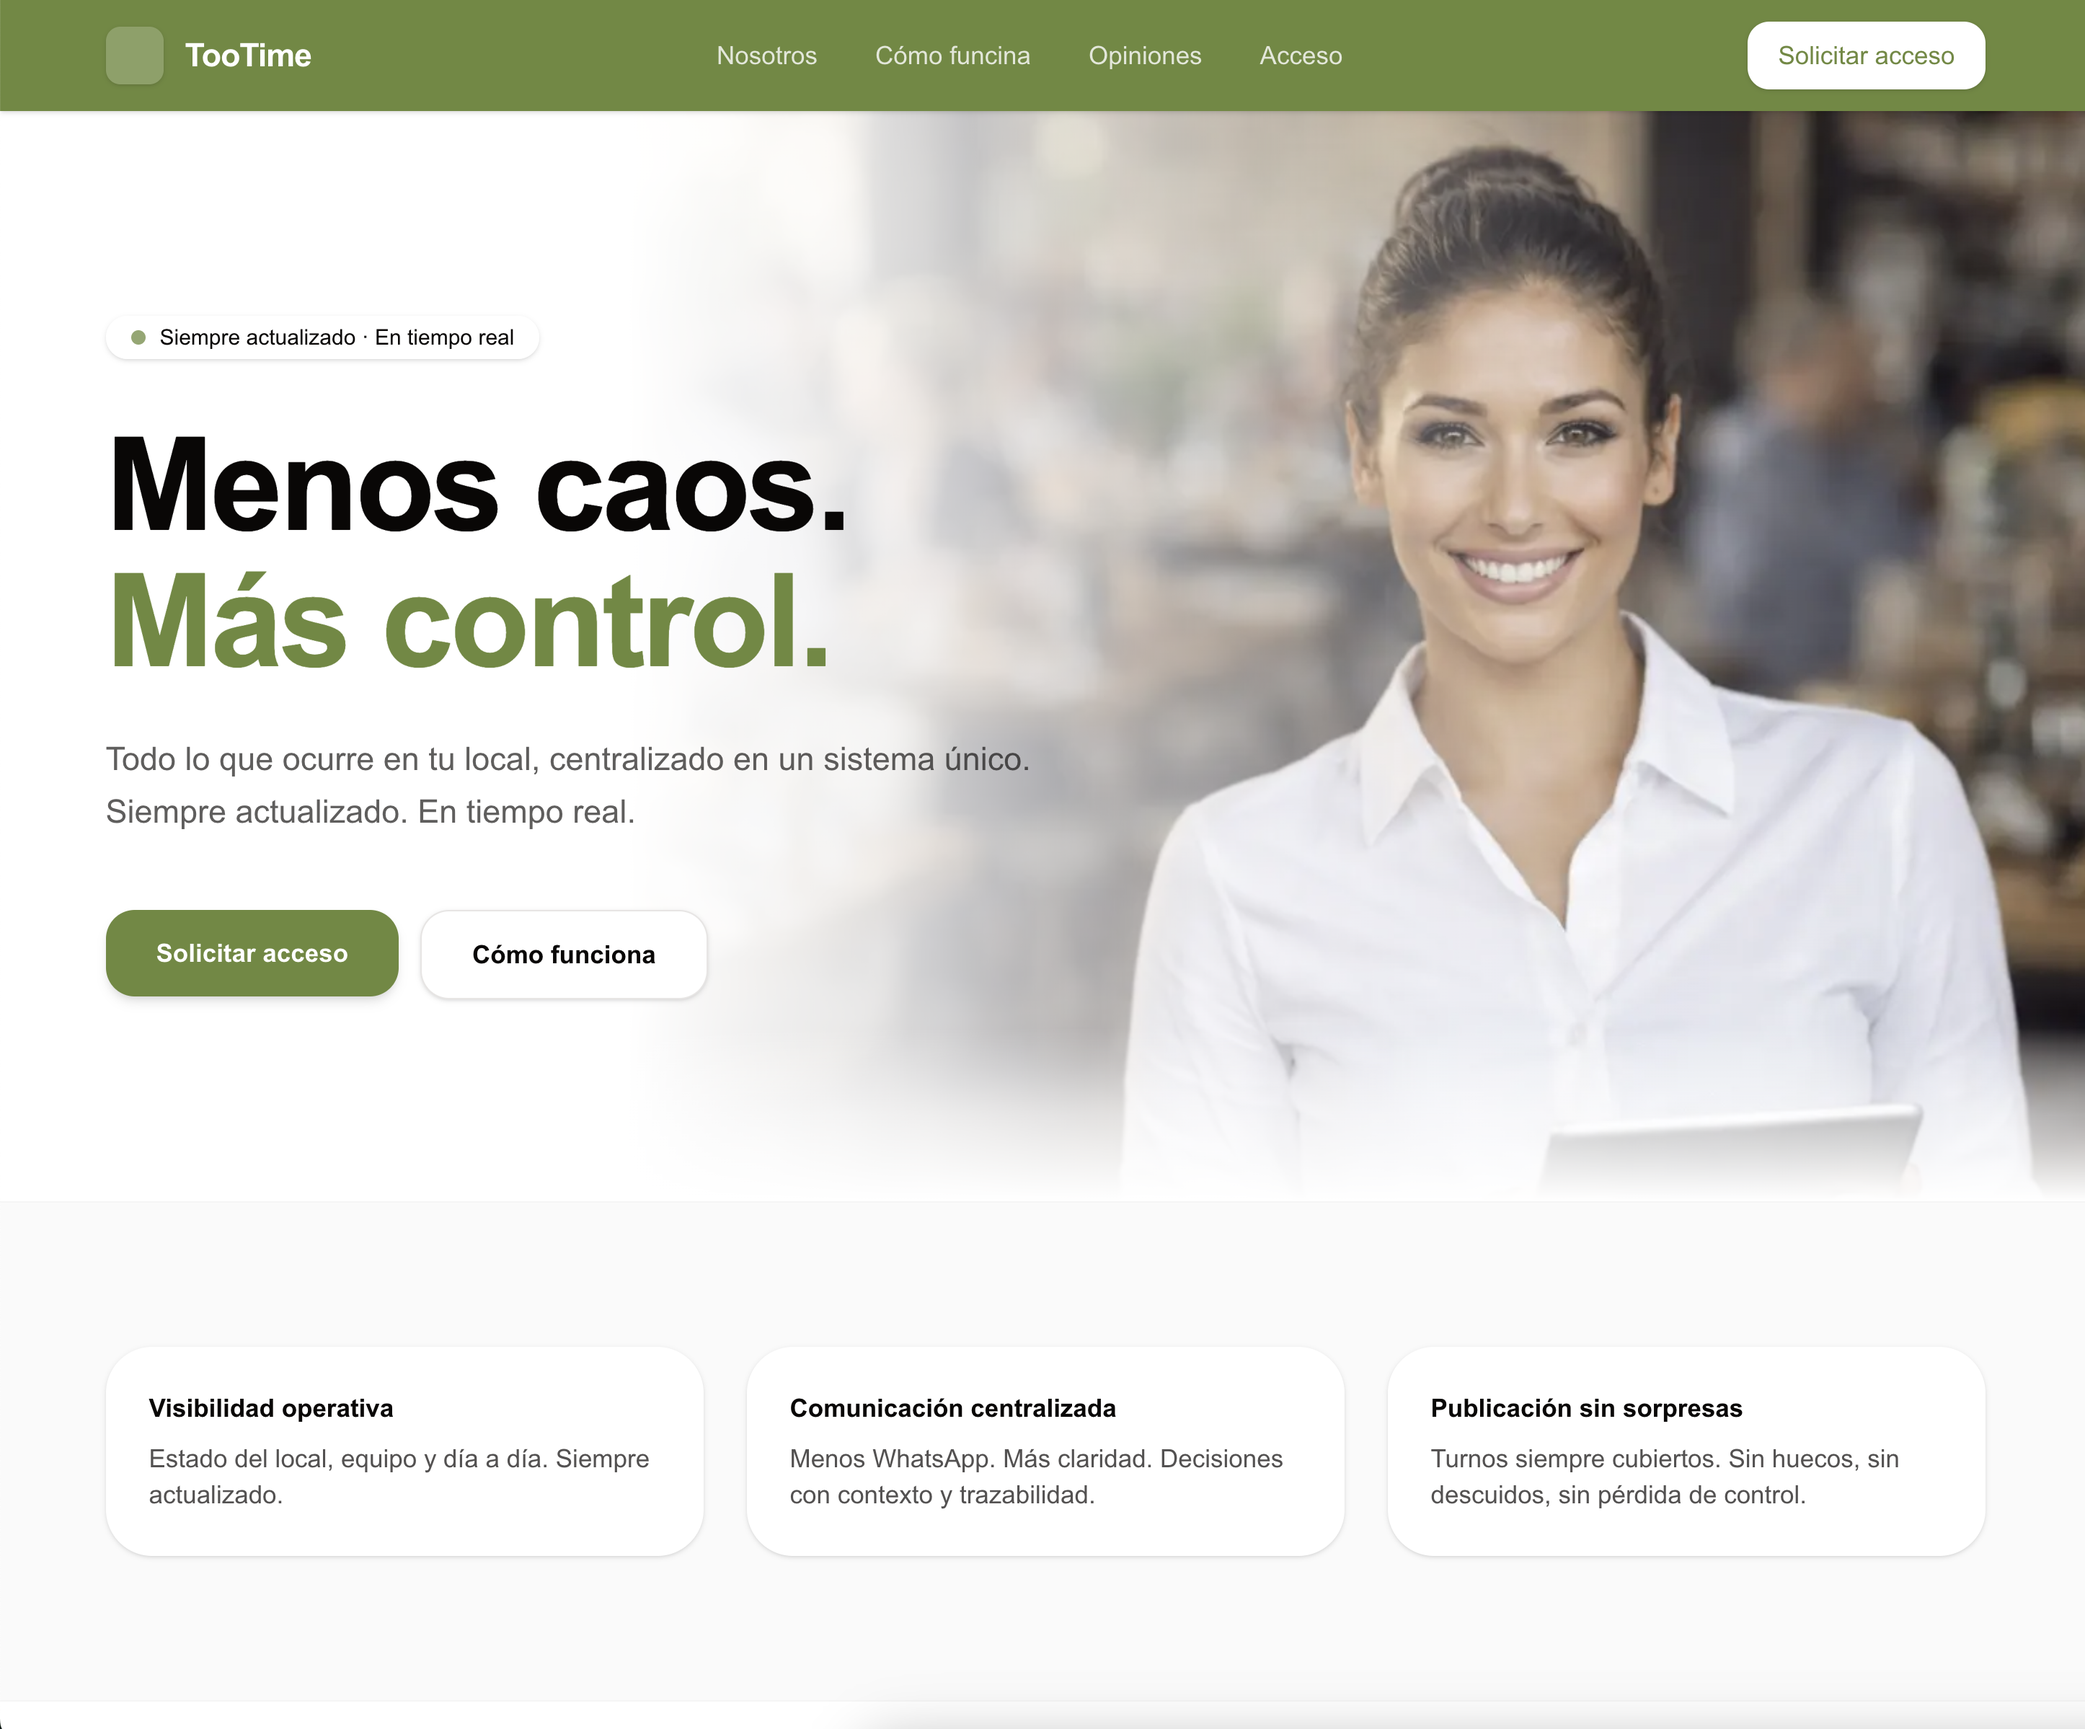
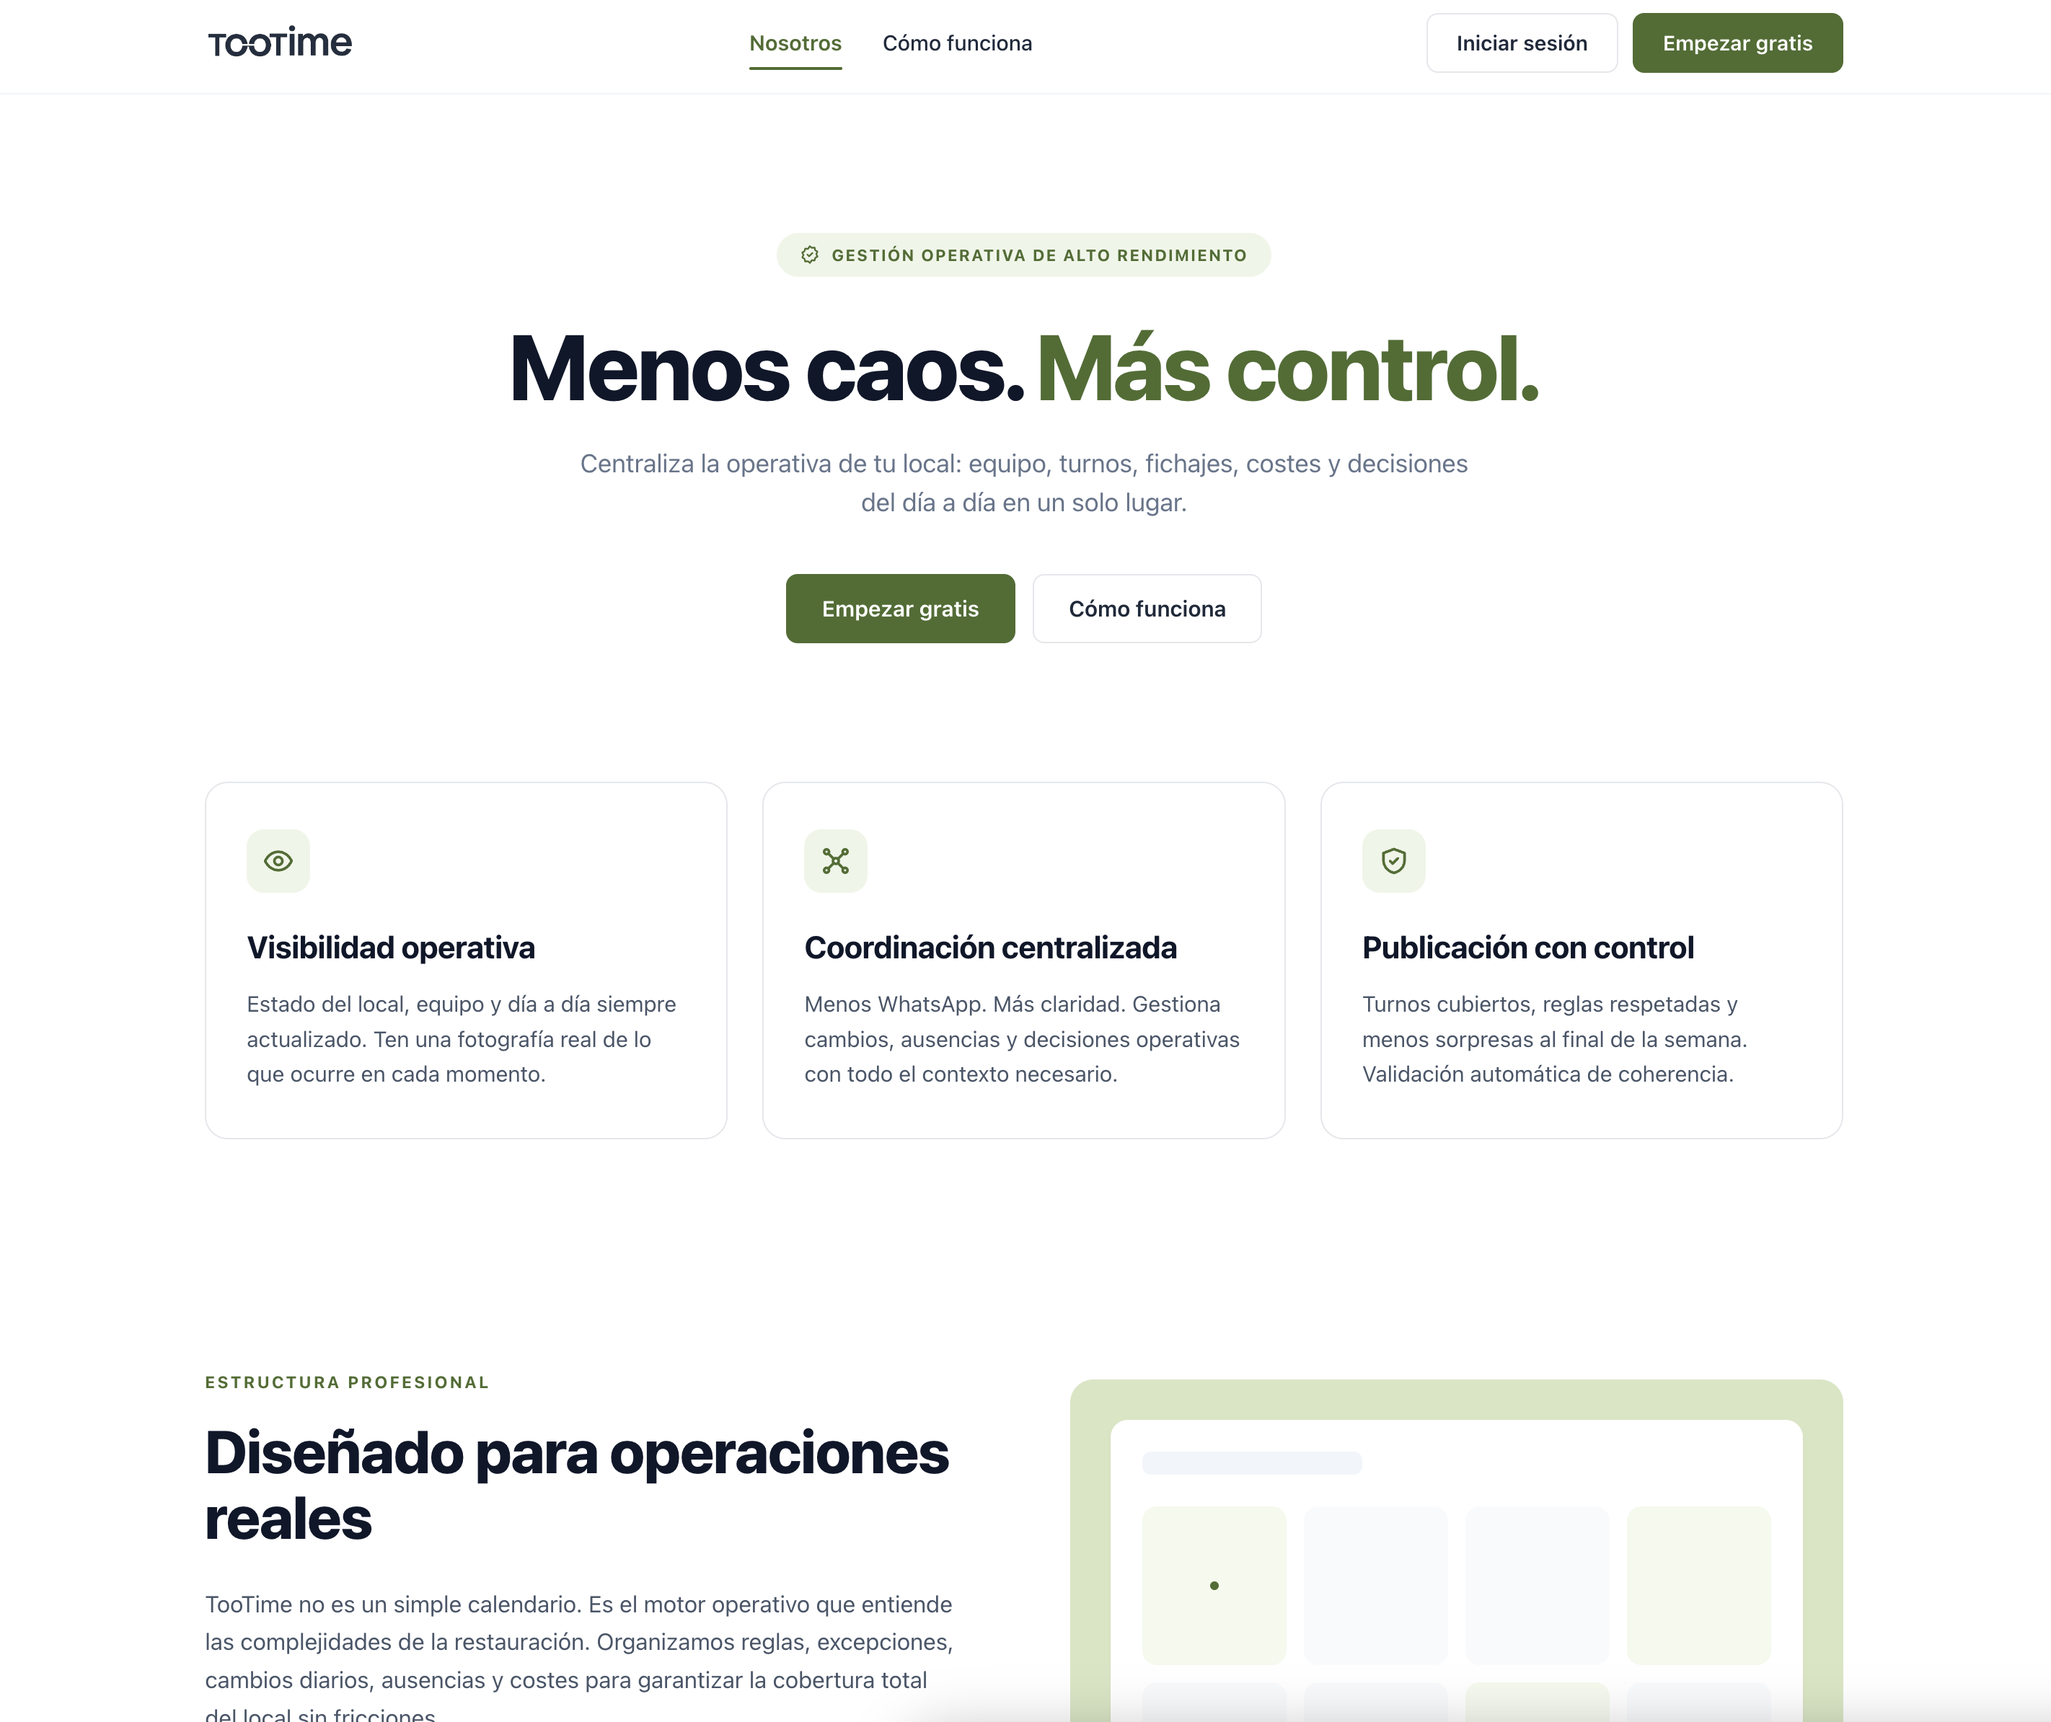
Añade proyecto Ivan Rojo al portfolio

diff --git a/src/pages/Home.jsx b/src/pages/Home.jsx
@@ -4,8 +4,7 @@ import '../App.css'
 import ContactSection from '../components/ContactSection.jsx'
 import imgPostales from '../assets/projects/postales-del-mundo.png'
 import imgTootime from '../assets/projects/tootime.png'
-import imgNomo from '../assets/projects/nomo-project.png'
-import imgScremato from '../assets/projects/scremato-coffee.png'
+import imgIvanRojo from '../assets/projects/IvanRojo.png'
 
 const ROTATION_SPEED = 0.17
 
@@ -271,56 +270,42 @@ export default function Home() {
               <div className="project-card-header">
                 <span className="project-number">01</span>
                 <h3 className="project-name">
-                  Postales del Mundo<span className="cursor-blink" aria-hidden="true" />
+                  Autocaravanas<span className="cursor-blink" aria-hidden="true" />
                 </h3>
               </div>
               <div className="project-image-wrap">
-                <img src={imgPostales} alt="Postales del Mundo" />
+                <img src={imgPostales} alt="Autocaravanas" />
               </div>
             </article>
             </a>
 
+            <a href="https://tootimeapp.com" target="_blank" rel="noopener noreferrer" style={{ textDecoration: 'none', cursor: 'pointer' }}>
             <article className="project-card" data-index="1">
               <div className="project-card-header">
                 <span className="project-number">02</span>
                 <h3 className="project-name">
-                  Tootime APP<span className="cursor-blink" aria-hidden="true" />
+                  Tootime<span className="cursor-blink" aria-hidden="true" />
                 </h3>
               </div>
               <div className="project-image-wrap">
                 <img src={imgTootime} alt="Tootime" />
               </div>
             </article>
+            </a>
 
+            <a href="https://ivanrojomusic.com" target="_blank" rel="noopener noreferrer" style={{ textDecoration: 'none', cursor: 'pointer' }}>
             <article className="project-card" data-index="2">
               <div className="project-card-header">
                 <span className="project-number">03</span>
                 <h3 className="project-name">
-                  Nomo project<span className="cursor-blink" aria-hidden="true" />
+                  Ivan Rojo<span className="cursor-blink" aria-hidden="true" />
                 </h3>
               </div>
-              <div className="project-image-wrap project-image-wrap--wip">
-                <img src={imgNomo} alt="Nomo" />
-                <div className="wip-overlay">
-                  <span className="wip-label">EN CONSTRUCCIÓN</span>
-                </div>
+              <div className="project-image-wrap">
+                <img src={imgIvanRojo} alt="Ivan Rojo" />
               </div>
             </article>
-
-            <article className="project-card" data-index="3">
-              <div className="project-card-header">
-                <span className="project-number">04</span>
-                <h3 className="project-name">
-                  Scrematto Coffee<span className="cursor-blink" aria-hidden="true" />
-                </h3>
-              </div>
-              <div className="project-image-wrap project-image-wrap--wip">
-                <img src={imgScremato} alt="Scremato Coffee" />
-                <div className="wip-overlay">
-                  <span className="wip-label">EN CONSTRUCCIÓN</span>
-                </div>
-              </div>
-            </article>
+            </a>
           </div>
         </div>
       </section>
